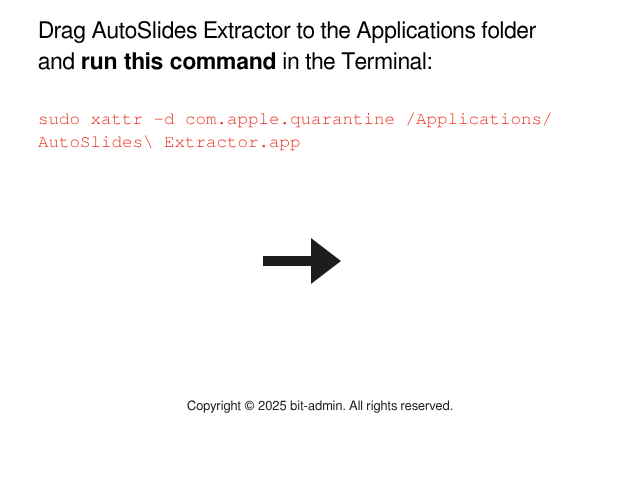
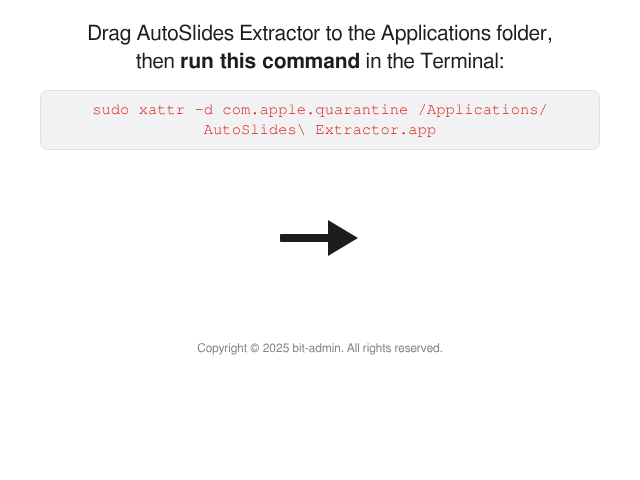
DMG: show the background on macOS 26.2+; compact layout
The background did not show on macOS 26 Tahoe: Finder listed
.background.tiff as a file. dmgbuild up to 1.6.6 also writes a background
bookmark (pBBk) into .DS_Store, and Finder on macOS 26.2+ then shows no
background at all; 1.6.7 writes only the classic alias, which all macOS
versions read (dmgbuild#273). Pin 1.6.7 (needs Python 3.10+, checked), and
Verify DMG fails if a pBBk record comes back.

Layout: on Tahoe only ~390 points of the 480-point window are visible
under the title bar (less with the status bar on), so everything now sits
in the top ~370 points: centred two-line heading, the xattr command in a
light grey box, icons at y=238 with the arrow between them, copyright
below. .background.tiff is moved out of view for users who show hidden
files.

Claude-Session: https://claude.ai/code/session_01AsdjtmGoMQjmzTyQwDF8eQ

diff --git a/installer/dmg/background.html b/installer/dmg/background.html
@@ -1,10 +1,12 @@
 <!doctype html>
 <!--
-  DMG window background (640x480 points). The Finder draws the two icons on top:
-  "AutoSlides Extractor.app" centred at (160, 262), "Applications" at (480, 262)
-  (see dmg-settings.py). Rendered to background.png (1x) and background@2x.png
-  (2x) with installer/dmg/render-background.js; package-macos.sh combines them
-  into one Retina-aware TIFF.
+  DMG window background, 640x480 points. Everything sits in the top ~370 points:
+  how much of the window Finder shows depends on the macOS version (title bar
+  height, the user's status bar setting), and the rest is plain white.
+  The Finder draws the two icons on top: "AutoSlides Extractor.app" centred at
+  (160, 238) and "Applications" at (480, 238) (see dmg-settings.py).
+  Rendered to background.png (1x) and background@2x.png (2x) with
+  render-background.js; dmgbuild combines them into one Retina TIFF.
 -->
 <html>
 <head>
@@ -13,31 +15,33 @@
   html, body { margin: 0; padding: 0; }
   body {
     width: 640px; height: 480px; overflow: hidden; position: relative;
-    background: #ffffff; color: #000000;
+    background: #ffffff; color: #1d1d1f;
     font-family: FreeSans, "Helvetica Neue", Helvetica, Arial, sans-serif;
   }
   .title {
-    position: absolute; left: 38px; top: 16px; width: 580px;
-    font-size: 23px; line-height: 31px; letter-spacing: -0.1px;
+    position: absolute; left: 0; right: 0; top: 20px; text-align: center;
+    font-size: 21px; line-height: 28px;
   }
   .command {
-    position: absolute; left: 38px; top: 108px; width: 580px;
+    position: absolute; left: 40px; right: 40px; top: 90px;
+    padding: 9px 14px; border-radius: 8px;
+    background: #f2f2f4; border: 1px solid #e2e2e6;
     font-family: FreeMono, Courier, "Courier New", monospace;
-    font-size: 17.5px; line-height: 23px; color: #ea3323;
+    font-size: 15.5px; line-height: 20px; color: #d6261a; text-align: center;
   }
-  .arrow { position: absolute; left: 263px; top: 236px; }
+  .arrow { position: absolute; left: 280px; top: 218px; }
   .copyright {
-    position: absolute; left: 0; right: 0; top: 400px; text-align: center;
-    font-size: 13px; color: #1d1d1f;
+    position: absolute; left: 0; right: 0; top: 342px; text-align: center;
+    font-size: 12px; color: #86868b;
   }
 </style>
 </head>
 <body>
-  <div class="title">Drag AutoSlides Extractor to the Applications folder<br>and <b>run this command</b> in the Terminal:</div>
+  <div class="title">Drag AutoSlides Extractor to the Applications folder,<br>then <b>run this command</b> in the Terminal:</div>
   <div class="command">sudo xattr -d com.apple.quarantine /Applications/<br>AutoSlides\ Extractor.app</div>
-  <svg class="arrow" width="80" height="50" viewBox="0 0 80 50" aria-hidden="true">
-    <rect x="0" y="20" width="52" height="10" fill="#1d1d1f"/>
-    <polygon points="48,2 78,25 48,48" fill="#1d1d1f"/>
+  <svg class="arrow" width="80" height="40" viewBox="0 0 80 40" aria-hidden="true">
+    <rect x="0" y="16" width="52" height="8" rx="1" fill="#1d1d1f"/>
+    <polygon points="48,2 78,20 48,38" fill="#1d1d1f"/>
   </svg>
   <div class="copyright">Copyright © 2025 bit-admin. All rights reserved.</div>
 </body>

diff --git a/installer/dmg/dmg-settings.py b/installer/dmg/dmg-settings.py
@@ -8,6 +8,9 @@
 # dmgbuild writes the Finder layout (.DS_Store) itself, so no Finder/AppleScript
 # is needed on CI. background@2x.png next to background.png is picked up and
 # combined into a Retina TIFF. Icon positions must match background.html.
+#
+# Needs dmgbuild >= 1.6.7: up to 1.6.6 it also wrote a background bookmark
+# (pBBk), and Finder on macOS 26.2+ then shows no background at all.
 import os.path
 
 app = defines["app"]  # noqa: F821 (provided by dmgbuild)
@@ -29,9 +32,11 @@ show_pathbar = False
 show_sidebar = False
 show_icon_preview = False
 
-icon_size = 112
+icon_size = 104
 text_size = 13
 icon_locations = {
-    app_name: (160, 262),
-    "Applications": (480, 262),
+    app_name: (160, 238),
+    "Applications": (480, 238),
+    # Only visible to users who show hidden files: keep it off the design
+    ".background.tiff": (320, 700),
 }
